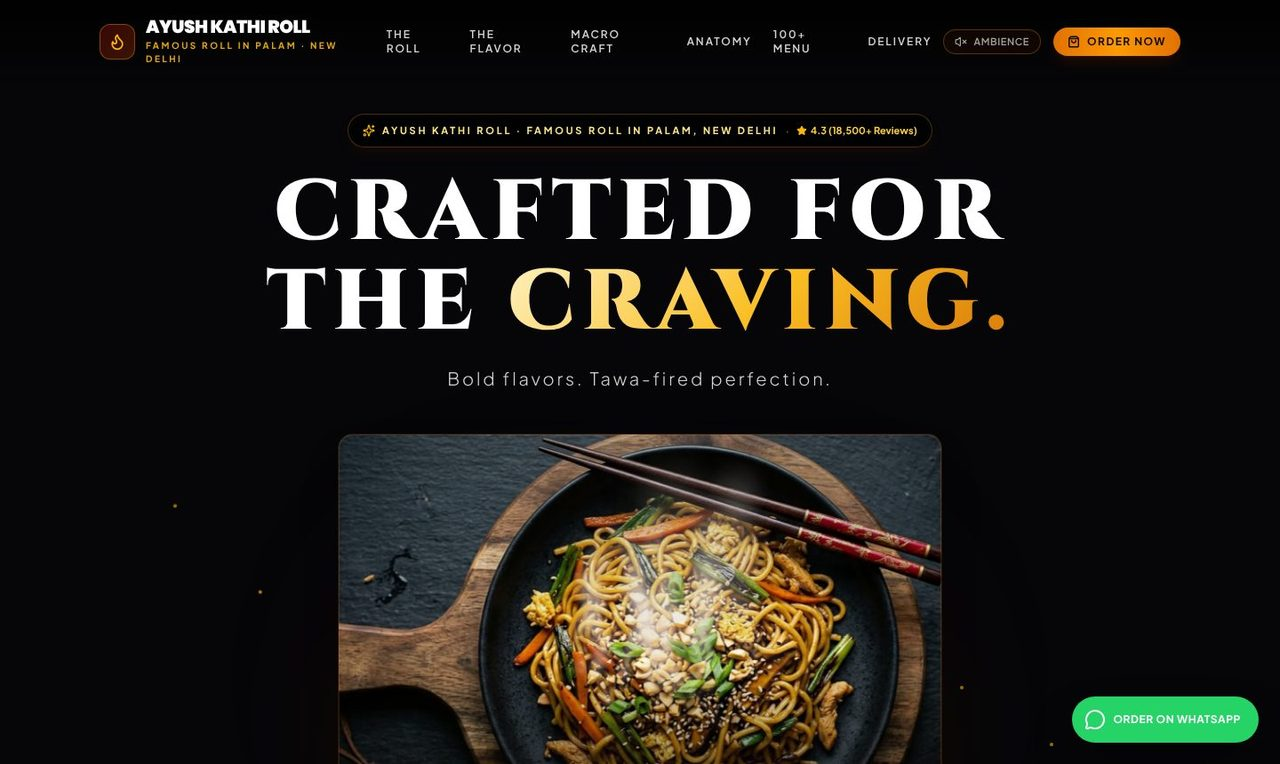
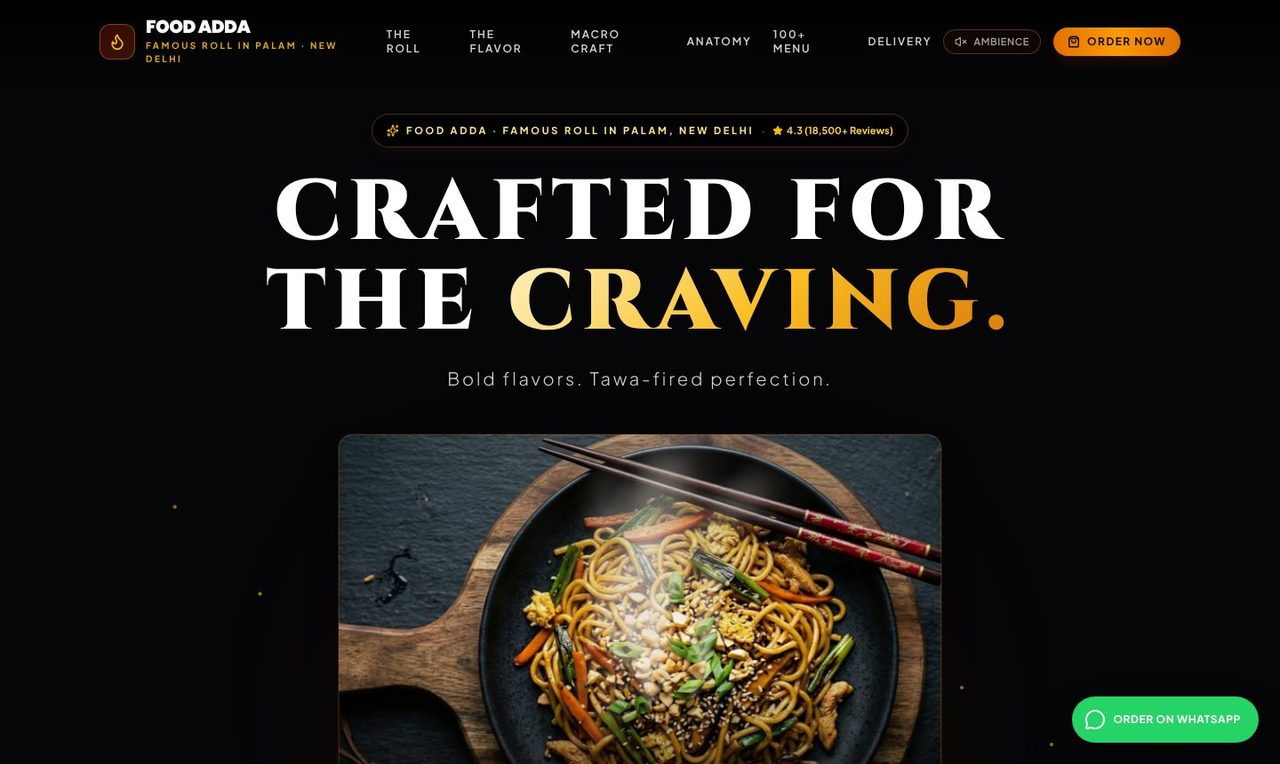
Rename the website to Food Adda
Claude-Session: https://claude.ai/code/session_01W4TnLUktZF56SiQdF6EjG4

diff --git a/index.html b/index.html
@@ -3,29 +3,29 @@
   <head>
     <meta charset="UTF-8" />
     <meta name="viewport" content="width=device-width, initial-scale=1.0" />
-    <title>Ayush Kathi Roll, Palam | Kathi Rolls, Momos &amp; Cold Drinks on WhatsApp Delivery</title>
-    <meta name="description" content="Ayush Kathi Roll, the famous roll in Palam, New Delhi. Tawa-fresh kathi rolls, momos, burgers and 22 cold drinks and shakes. Home delivery only: order on WhatsApp at +91 85953 74660." />
+    <title>Food Adda, Palam | Kathi Rolls, Momos &amp; Cold Drinks on WhatsApp Delivery</title>
+    <meta name="description" content="Food Adda, the famous roll in Palam, New Delhi. Tawa-fresh kathi rolls, momos, burgers and 22 cold drinks and shakes. Home delivery only: order on WhatsApp at +91 85953 74660." />
     <meta name="theme-color" content="#060608" />
     <link rel="icon" type="image/svg+xml" href="./favicon.svg" />
     <link rel="apple-touch-icon" href="./apple-touch-icon.png" />
     <!-- Live address -->
     <link rel="canonical" href="https://ayush-kathi-roll.vercel.app/" />
-    <meta property="og:site_name" content="Ayush Kathi Roll" />
-    <meta property="og:title" content="Ayush Kathi Roll, Palam | Order on WhatsApp for Home Delivery" />
+    <meta property="og:site_name" content="Food Adda" />
+    <meta property="og:title" content="Food Adda, Palam | Order on WhatsApp for Home Delivery" />
     <meta property="og:description" content="Tawa-fresh kathi rolls, momos and cold drinks in Palam, New Delhi. Home delivery only, order on WhatsApp: +91 85953 74660." />
     <meta property="og:type" content="website" />
     <meta property="og:url" content="https://ayush-kathi-roll.vercel.app/" />
     <meta property="og:image" content="https://ayush-kathi-roll.vercel.app/og-image.jpg" />
     <meta property="og:locale" content="en_IN" />
     <meta name="twitter:card" content="summary_large_image" />
-    <meta name="twitter:title" content="Ayush Kathi Roll, Palam | WhatsApp Home Delivery" />
+    <meta name="twitter:title" content="Food Adda, Palam | WhatsApp Home Delivery" />
     <meta name="twitter:description" content="Tawa-fresh kathi rolls, momos and cold drinks. Order on WhatsApp: +91 85953 74660." />
     <meta name="twitter:image" content="https://ayush-kathi-roll.vercel.app/og-image.jpg" />
     <script type="application/ld+json">
     {
       "@context": "https://schema.org",
       "@type": "Restaurant",
-      "name": "Ayush Kathi Roll",
+      "name": "Food Adda",
       "description": "Tawa-fresh kathi rolls, momos, burgers, cold drinks and shakes. Home delivery only, orders on WhatsApp.",
       "url": "https://ayush-kathi-roll.vercel.app/",
       "image": "https://ayush-kathi-roll.vercel.app/og-image.jpg",
@@ -61,7 +61,7 @@
   </head>
   <body class="bg-[#060608] text-[#eae7e1] antialiased selection:bg-[#d97706]/30 selection:text-[#fef3c7] overflow-x-hidden">
     <div id="root"></div>
-    <noscript>Ayush Kathi Roll, Palam, New Delhi. Home delivery only. Order on WhatsApp: <a href="https://wa.me/918595374660">+91 85953 74660</a></noscript>
+    <noscript>Food Adda, Palam, New Delhi. Home delivery only. Order on WhatsApp: <a href="https://wa.me/918595374660">+91 85953 74660</a></noscript>
     <script type="module" src="/src/main.tsx"></script>
   </body>
 </html>

diff --git a/src/data/menu.ts b/src/data/menu.ts
@@ -23,7 +23,7 @@ export interface ComboOffer {
 }
 
 export const OUTLET_INFO = {
-  name: 'Ayush Kathi Roll',
+  name: 'Food Adda',
   tagline: 'Famous Roll in Palam, New Delhi',
   subline: 'Freshly rolled on high-flame iron tawa since 2014',
   address: 'Shop No. 4, Main Railway Road, Near Palam Metro Pillar 42, Palam Colony, New Delhi 110045',
@@ -379,7 +379,7 @@ export const FULL_MENU_ITEMS: MenuItem[] = [
   },
   {
     id: 'vr-18',
-    name: 'Ayush Special Veg Jumbo Roll',
+    name: 'Adda Special Veg Jumbo Roll',
     category: 'Veg Kathi Rolls',
     price: 190,
     dietary: 'veg',
@@ -536,7 +536,7 @@ export const FULL_MENU_ITEMS: MenuItem[] = [
   },
   {
     id: 'nr-18',
-    name: 'Ayush Mahabali Non-Veg Monster Roll',
+    name: 'Adda Mahabali Non-Veg Monster Roll',
     category: 'Non-Veg Kathi Rolls',
     price: 240,
     dietary: 'non-veg',
@@ -1039,7 +1039,7 @@ export const CUSTOMER_REVIEWS = [
     source: 'Google Reviews',
     date: '1 week ago',
     comment:
-      'We often order late night from Ayush Kathi Roll. Paneer Tikka and Veg Kurkure Momos are always super fresh and piping hot. Fast delivery and clean packaging!',
+      'We often order late night from Food Adda. Paneer Tikka and Veg Kurkure Momos are always super fresh and piping hot. Fast delivery and clean packaging!',
   },
   {
     id: 'rev-3',
@@ -1049,7 +1049,7 @@ export const CUSTOMER_REVIEWS = [
     source: 'Zomato Foodie',
     date: '3 days ago',
     comment:
-      'Living in Palam for 10 years and Ayush Kathi Roll is our go-to spot. Real tawa flavor, great portion size, and super reasonable prices. Cold coffee is also surprisingly delicious!',
+      'Living in Palam for 10 years and Food Adda is our go-to spot. Real tawa flavor, great portion size, and super reasonable prices. Cold coffee is also surprisingly delicious!',
   },
   {
     id: 'rev-4',

diff --git a/src/components/Footer.tsx b/src/components/Footer.tsx
@@ -18,7 +18,7 @@ export const Footer: React.FC = () => {
               </div>
               <div>
                 <span className="font-heading text-xl font-black tracking-tight text-white uppercase block leading-none">
-                  AYUSH KATHI ROLL
+                  FOOD ADDA
                 </span>
                 <span className="text-[10px] tracking-[0.25em] text-amber-500/90 font-bold uppercase block mt-1">
                   Famous Roll in Palam · New Delhi
@@ -32,7 +32,7 @@ export const Footer: React.FC = () => {
 
             <div className="flex items-center gap-3 pt-2">
               <a
-                href={`https://wa.me/${OUTLET_INFO.whatsapp}?text=${encodeURIComponent('Hi Ayush Kathi Roll, I want to order for home delivery.')}`}
+                href={`https://wa.me/${OUTLET_INFO.whatsapp}?text=${encodeURIComponent('Hi Food Adda, I want to order for home delivery.')}`}
                 target="_blank"
                 rel="noopener noreferrer"
                 className="px-3.5 py-1.5 rounded-lg bg-stone-900 border border-stone-700 hover:border-emerald-500 text-emerald-400 text-xs font-black tracking-wider transition-colors flex items-center gap-1.5"
@@ -128,7 +128,7 @@ export const Footer: React.FC = () => {
         {/* Bottom Bar */}
         <div className="pt-8 flex flex-col sm:flex-row items-center justify-between gap-4 text-xs text-stone-500 font-light">
           <div>
-            © {new Date().getFullYear()} Ayush Kathi Roll. Famous Roll in Palam, New Delhi. All rights reserved.
+            © {new Date().getFullYear()} Food Adda. Famous Roll in Palam, New Delhi. All rights reserved.
           </div>
           <div className="flex items-center gap-6">
             <a href="#menu" className="hover:text-stone-300 transition-colors">

diff --git a/src/components/LocationSection.tsx b/src/components/LocationSection.tsx
@@ -92,7 +92,7 @@ export const LocationSection: React.FC = () => {
               </a>
 
               <a
-                href={`https://wa.me/${OUTLET_INFO.whatsapp}?text=${encodeURIComponent('Hi Ayush Kathi Roll, I want to order for home delivery.')}`}
+                href={`https://wa.me/${OUTLET_INFO.whatsapp}?text=${encodeURIComponent('Hi Food Adda, I want to order for home delivery.')}`}
                 target="_blank"
                 rel="noopener noreferrer"
                 className="py-3 px-4 rounded-xl bg-emerald-600 hover:bg-emerald-500 text-white text-xs font-bold text-center flex items-center justify-center gap-2 shadow-lg shadow-emerald-950/40 transition-all"
@@ -106,7 +106,7 @@ export const LocationSection: React.FC = () => {
           {/* Embedded Google Map */}
           <div className="lg:col-span-7 rounded-2xl overflow-hidden border border-amber-900/40 shadow-2xl bg-black min-h-[360px] relative flex items-center justify-center">
             <iframe
-              title="Ayush Kathi Roll delivery area map, Palam, New Delhi"
+              title="Food Adda delivery area map, Palam, New Delhi"
               src="https://www.google.com/maps/embed?pb=!1m18!1m12!1m3!1d14013.235552399583!2d77.078216!3d28.590514!2m3!1f0!2f0!3f0!3m2!1i1024!2i768!4f13.1!3m3!1m2!1s0x390d1b32d2077e69%3A0xc0d71dc9e4ea0ef!2sPalam%2C%20New%20Delhi%2C%20Delhi!5e0!3m2!1sen!2sin!4v1680000000000!5m2!1sen!2sin"
               className="w-full h-full min-h-[420px] border-0"
               loading="lazy"

diff --git a/src/components/HeroSection.tsx b/src/components/HeroSection.tsx
@@ -72,7 +72,7 @@ export const HeroSection: React.FC<HeroSectionProps> = ({
         <div className="inline-flex flex-wrap items-center justify-center gap-x-2 gap-y-1 max-w-full px-4 py-1.5 rounded-full border border-amber-500/30 bg-black/70 backdrop-blur-md mb-6 shadow-lg shadow-amber-950/20">
           <Sparkles className="w-3.5 h-3.5 text-amber-400" />
           <span className="text-[10px] sm:text-[11px] font-bold tracking-[0.18em] sm:tracking-[0.25em] uppercase text-amber-200">
-            <span className="hidden sm:inline">Ayush Kathi Roll · </span>Famous Roll in Palam, New Delhi
+            <span className="hidden sm:inline">Food Adda · </span>Famous Roll in Palam, New Delhi
           </span>
           <span className="hidden sm:inline text-amber-500/60">·</span>
           <span className="flex items-center gap-1 text-[11px] font-bold text-amber-300">
@@ -115,7 +115,7 @@ export const HeroSection: React.FC<HeroSectionProps> = ({
             <div className="relative w-full h-full overflow-hidden">
               <img
                 src={CINEMATIC_IMAGES.heroDish}
-                alt="Ayush Kathi Roll signature dish, hot off the tawa in Palam, New Delhi"
+                alt="Food Adda signature dish, hot off the tawa in Palam, New Delhi"
                 fetchPriority="high"
                 className={`absolute inset-0 w-full h-full object-cover ${LITE_MODE ? 'animate-slow-push' : 'animate-endless-push'}`}
               />

diff --git a/src/components/Navbar.tsx b/src/components/Navbar.tsx
@@ -37,14 +37,14 @@ export const Navbar: React.FC<NavbarProps> = ({ onOpenOrder, orderCount = 0 }) =
       }`}
     >
       <div className="max-w-7xl mx-auto px-4 sm:px-6 lg:px-8 flex items-center justify-between gap-3">
-        {/* Brand Mark: Ayush Kathi Roll - Famous Roll in Palam */}
+        {/* Brand Mark: Food Adda - Famous Roll in Palam */}
         <a href="#hero" className="flex items-center gap-2.5 sm:gap-3 group min-w-0">
           <div className="shrink-0 w-9 h-9 sm:w-10 sm:h-10 rounded-xl border border-amber-500/40 bg-gradient-to-br from-red-950/80 to-amber-950/80 flex items-center justify-center group-hover:border-amber-400 group-hover:scale-105 transition-all duration-300 shadow-md">
             <Flame className="w-5 h-5 text-amber-400 group-hover:text-amber-300" />
           </div>
           <div>
             <span className="font-heading text-[15px] min-[400px]:text-base sm:text-xl font-black tracking-tight whitespace-nowrap text-white group-hover:text-amber-200 transition-colors uppercase block leading-none">
-              AYUSH KATHI ROLL
+              FOOD ADDA
             </span>
             <span className="hidden sm:block text-[9px] sm:text-[10px] tracking-[0.25em] text-amber-400/90 font-bold uppercase mt-1">
               Famous Roll in Palam · New Delhi

diff --git a/src/components/BrandStorySection.tsx b/src/components/BrandStorySection.tsx
@@ -19,7 +19,7 @@ export const BrandStorySection: React.FC = () => {
                   loading="lazy"
                   decoding="async"
                   src={CINEMATIC_IMAGES.flameAction}
-                  alt="Roaring flame over seasoned iron plate at Ayush Kathi Roll"
+                  alt="Roaring flame over seasoned iron plate at Food Adda"
                   className="w-full h-full object-cover animate-slow-push transition-transform duration-1000 group-hover:scale-105"
                 />
               </div>
@@ -58,7 +58,7 @@ export const BrandStorySection: React.FC = () => {
             </h2>
 
             <p className="text-base text-stone-300 leading-relaxed font-light">
-              Founded in 2014 on Main Railway Road in Palam, <strong>Ayush Kathi Roll</strong> was built on an uncompromising philosophy: elevate authentic Delhi street food to an artisanal culinary science.
+              Founded in 2014 on Main Railway Road in Palam, <strong>Food Adda</strong> was built on an uncompromising philosophy: elevate authentic Delhi street food to an artisanal culinary science.
             </p>
 
             <p className="text-sm text-stone-400 leading-relaxed font-light">

diff --git a/src/components/IngredientsSection.tsx b/src/components/IngredientsSection.tsx
@@ -82,7 +82,7 @@ export const IngredientsSection: React.FC = () => {
             THE ANATOMY OF <span className="text-gold-gradient">PERFECTION.</span>
           </h2>
           <p className="mt-4 text-sm sm:text-base text-stone-300 font-light tracking-wide leading-relaxed">
-            Select any ingredient pin to reveal its sourcing, preparation discipline, and flavor contribution to Ayush Kathi Roll's legendary recipe.
+            Select any ingredient pin to reveal its sourcing, preparation discipline, and flavor contribution to Food Adda's legendary recipe.
           </p>
         </div>
 
@@ -96,7 +96,7 @@ export const IngredientsSection: React.FC = () => {
                   loading="lazy"
                   decoding="async"
                   src={CINEMATIC_IMAGES.overheadShowcase}
-                  alt="Overhead view of Ayush Kathi Roll dishes"
+                  alt="Overhead view of Food Adda dishes"
                   className="w-full h-full object-cover animate-slow-push transition-transform duration-1000 group-hover:scale-105"
                 />
               </div>

diff --git a/src/components/OrderDrawer.tsx b/src/components/OrderDrawer.tsx
@@ -61,7 +61,7 @@ export const OrderDrawer: React.FC<OrderDrawerProps> = ({
       .map((line, i) => `${i + 1}. ${line.quantity} x ${line.item.name} - ₹${line.item.price * line.quantity}`)
       .join('\n');
     const message =
-      `*NEW DELIVERY ORDER - AYUSH KATHI ROLL*\n\n` +
+      `*NEW DELIVERY ORDER - FOOD ADDA*\n\n` +
       `${lines}\n\n` +
       `*Total: ₹${totalPrice}* (${itemCount} item${itemCount > 1 ? 's' : ''})\n\n` +
       (hasFood ? `Spice level: ${spiceLevel}\nParatha: ${parathaCrispness}\n` : '') +

diff --git a/src/components/FlavorSection.tsx b/src/components/FlavorSection.tsx
@@ -136,7 +136,7 @@ export const FlavorSection: React.FC = () => {
               &ldquo;The secret to the famous roll is the dialogue between fire, cold spices, and the rhythmic roll of the wooden spatula over cast iron.&rdquo;
             </p>
             <span className="block mt-2 text-xs uppercase tracking-[0.2em] text-amber-400 font-semibold">
-              — Master Tawa Kitchen · Ayush Kathi Roll, Palam
+              — Master Tawa Kitchen · Food Adda, Palam
             </span>
           </div>
 

diff --git a/src/components/FullScreenMoment.tsx b/src/components/FullScreenMoment.tsx
@@ -12,7 +12,7 @@ export const FullScreenMoment: React.FC = () => {
           loading="lazy"
           decoding="async"
           src={CINEMATIC_IMAGES.heroDish}
-          alt="Freshly made food at Ayush Kathi Roll, Palam"
+          alt="Freshly made food at Food Adda, Palam"
           className="w-full h-full object-cover opacity-40 scale-105 animate-slow-push"
         />
         <div className="absolute inset-0 bg-radial-gradient from-transparent via-black/50 to-black/95" />

diff --git a/src/App.tsx b/src/App.tsx
@@ -141,7 +141,7 @@ export default function App() {
             <Check className="w-4 h-4 stroke-[3]" />
           </div>
           <div className="text-xs">
-            <div className="font-bold text-amber-300 uppercase tracking-wider">Ayush Kathi Roll</div>
+            <div className="font-bold text-amber-300 uppercase tracking-wider">Food Adda</div>
             <div className="text-stone-300">{toastMessage}</div>
           </div>
         </div>
